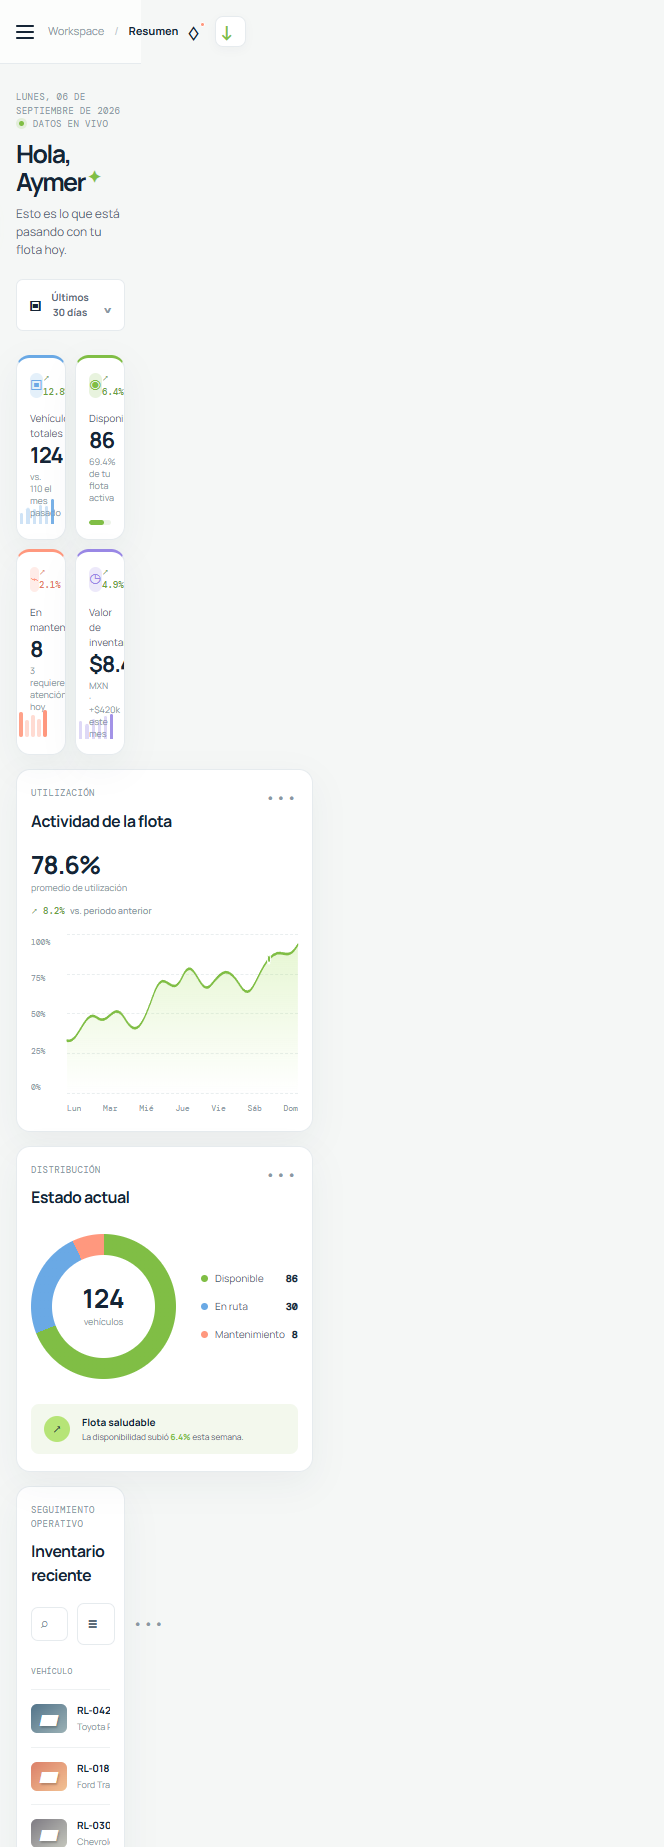
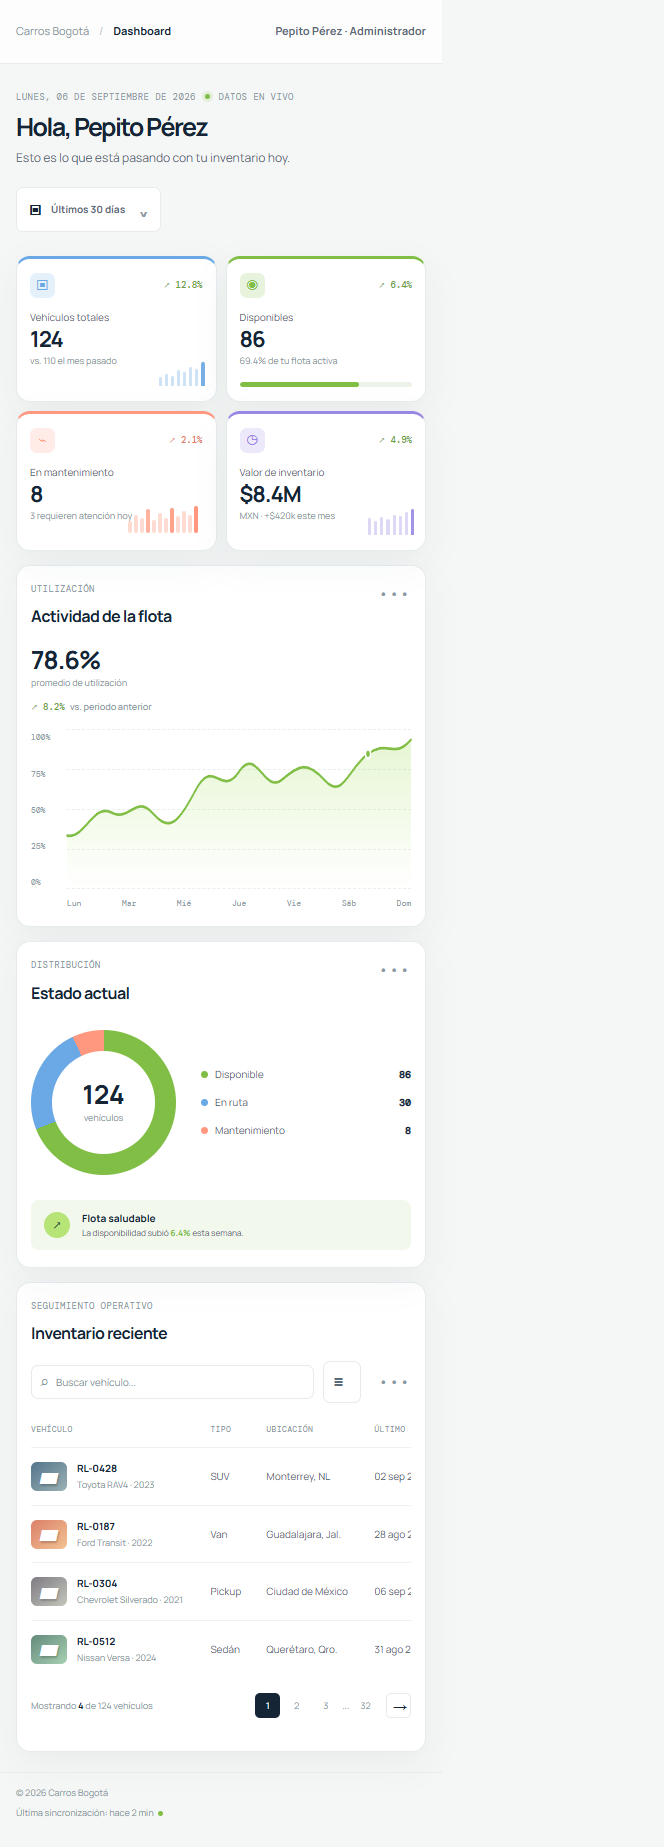
simplify vehicle dashboard branding

diff --git a/styles.css b/styles.css
@@ -27,7 +27,7 @@ button { border: 0; cursor: pointer; }
 a { color: inherit; text-decoration: none; }
 .sr-only { position: absolute; width: 1px; height: 1px; padding: 0; margin: -1px; overflow: hidden; clip: rect(0, 0, 0, 0); white-space: nowrap; border: 0; }
 
-.app-shell { display: grid; min-height: 100vh; grid-template-columns: 248px minmax(0, 1fr); grid-template-rows: 72px 1fr 52px; grid-template-areas: 'sidebar topbar' 'sidebar main' 'sidebar footer'; }
+.app-shell { display: grid; min-height: 100vh; grid-template-columns: minmax(0, 1fr); grid-template-rows: 72px 1fr 52px; grid-template-areas: 'topbar' 'main' 'footer'; }
 .sidebar { grid-area: sidebar; display: flex; flex-direction: column; position: relative; z-index: 5; padding: 28px 18px 20px; background: var(--sidebar); color: #fff; }
 .brand { display: flex; align-items: center; gap: 10px; margin: 0 12px 38px; font-size: 18px; font-weight: 800; letter-spacing: -.7px; }
 .brand-dot { color: var(--lime); }
@@ -42,7 +42,7 @@ a { color: inherit; text-decoration: none; }
 .nav-link { display: flex; align-items: center; gap: 12px; min-height: 42px; margin: 2px 0; padding: 0 13px; border-radius: 9px; color: var(--sidebar-soft); font-size: 12px; font-weight: 600; transition: color .2s ease, background .2s ease, transform .2s ease; }.nav-link:hover, .nav-link:focus-visible { color: #fff; background: rgba(255,255,255,.08); transform: translateX(2px); outline: none; }.nav-link.active { color: var(--ink); background: var(--lime); box-shadow: 0 5px 16px rgba(182,228,119,.16); }.nav-icon { width: 16px; color: currentColor; font-size: 17px; line-height: 1; text-align: center; }.nav-count { margin-left: auto; color: #718897; font-family: var(--font-mono); font-size: 9px; }.nav-link.active .nav-count { color: var(--ink); }.nav-count.warning { color: var(--coral); }.notification-dot { width: 5px; height: 5px; margin-left: auto; border-radius: 50%; background: var(--coral); }
 .sidebar-bottom { margin-top: auto; }.support-card { display: flex; align-items: center; gap: 9px; margin: 0 2px 23px; padding: 12px 10px; border-top: 1px solid rgba(255,255,255,.1); color: var(--sidebar-soft); font-size: 10px; }.support-card > div { flex: 1; }.support-card strong, .support-card span { display: block; }.support-card strong { color: #d4dee4; font-size: 10px; }.support-icon { display: grid; width: 24px; height: 24px; place-items: center; border: 1px solid #536d7c; border-radius: 50%; font-size: 11px; }.profile { display: flex; align-items: center; gap: 9px; padding: 11px 8px 0; border-top: 1px solid rgba(255,255,255,.1); }.avatar { display: grid; width: 31px; height: 31px; place-items: center; border-radius: 50%; background: #ecc1a4; color: var(--ink); font-size: 10px; font-weight: 800; }.profile div:nth-child(2) { flex: 1; }.profile strong, .profile span { display: block; }.profile strong { color: #eef4f7; font-size: 10px; }.profile span { color: var(--sidebar-soft); font-size: 9px; }.profile button { padding: 5px; background: transparent; color: var(--sidebar-soft); letter-spacing: 2px; }
 
-.topbar { grid-area: topbar; display: flex; align-items: center; justify-content: space-between; padding: 0 42px; border-bottom: 1px solid var(--line); background: rgba(255,255,255,.72); }.breadcrumb { display: flex; gap: 10px; color: var(--muted); font-size: 11px; }.breadcrumb b { color: #c3cbd0; font-weight: 400; }.breadcrumb strong { color: var(--ink); font-weight: 700; }.topbar-actions { display: flex; align-items: center; gap: 18px; }.icon-button, .menu-toggle { display: grid; place-items: center; background: transparent; color: var(--ink); }.icon-button { position: relative; width: 30px; height: 30px; font-size: 21px; }.notification-button i { position: absolute; top: 5px; right: 3px; width: 5px; height: 5px; border: 1px solid var(--white); border-radius: 50%; background: var(--coral); }.export-button { display: flex; align-items: center; gap: 8px; padding: 10px 15px; border: 1px solid var(--line); border-radius: 8px; background: var(--white); color: var(--ink); font-size: 11px; font-weight: 700; box-shadow: 0 3px 10px rgba(21,37,54,.03); transition: border-color .2s, transform .2s, box-shadow .2s; }.export-button:hover, .export-button:focus-visible { border-color: var(--lime-deep); box-shadow: 0 7px 18px rgba(21,37,54,.08); transform: translateY(-1px); outline: none; }.export-button span { color: var(--lime-deep); font-size: 19px; line-height: 12px; }.menu-toggle { display: none; }
+.topbar { grid-area: topbar; display: flex; align-items: center; justify-content: space-between; padding: 0 42px; border-bottom: 1px solid var(--line); background: rgba(255,255,255,.72); }.breadcrumb { display: flex; gap: 10px; color: var(--muted); font-size: 11px; }.breadcrumb b { color: #c3cbd0; font-weight: 400; }.breadcrumb strong { color: var(--ink); font-weight: 700; }.user-label { color: var(--ink-soft); font-size: 11px; font-weight: 700; }
 
 .main-content { grid-area: main; width: 100%; max-width: 1440px; margin: 0 auto; padding: 42px 42px 30px; }.page-intro { display: flex; align-items: end; justify-content: space-between; margin-bottom: 30px; }.eyebrow, .panel-kicker { margin: 0 0 8px; color: var(--muted); font-family: var(--font-mono); font-size: 9px; letter-spacing: .4px; text-transform: uppercase; }.live-dot { display: inline-block; width: 5px; height: 5px; margin: 0 3px 1px; border-radius: 50%; background: var(--lime-deep); box-shadow: 0 0 0 3px rgba(128,190,69,.15); }.page-intro h1 { margin: 0; font-size: clamp(25px, 2.5vw, 33px); letter-spacing: -1.6px; line-height: 1.15; }.page-intro h1 span { color: var(--lime-deep); font-size: .62em; vertical-align: top; }.intro-copy { margin: 8px 0 0; color: var(--ink-soft); font-size: 12px; }.date-button { display: flex; align-items: center; gap: 10px; padding: 10px 12px; border: 1px solid var(--line); border-radius: 7px; background: var(--white); color: var(--ink-soft); font-size: 10px; font-weight: 700; }.date-button span:first-child { color: var(--ink); font-size: 14px; }.date-button span:last-child { padding-left: 4px; color: var(--muted); font-size: 15px; }
 .metrics-grid { display: grid; grid-template-columns: repeat(4, 1fr); gap: 13px; margin-bottom: 14px; }.metric-card, .panel { border: 1px solid var(--line); border-radius: var(--radius); background: var(--white); box-shadow: var(--shadow); }.metric-card { position: relative; min-height: 144px; padding: 17px 18px 15px; overflow: hidden; border-top: 3px solid var(--accent); }.accent-blue { --accent: var(--blue); }.accent-lime { --accent: var(--lime-deep); }.accent-coral { --accent: var(--coral); }.accent-violet { --accent: var(--violet); }.metric-top { display: flex; align-items: center; justify-content: space-between; }.metric-icon { display: grid; width: 25px; height: 25px; place-items: center; border-radius: 7px; background: color-mix(in srgb, var(--accent) 18%, white); color: var(--accent); font-size: 15px; }.trend { font-family: var(--font-mono); font-size: 9px; font-weight: 500; }.trend.positive { color: #69a33d; }.trend.negative { color: #e37a65; }.metric-card p { margin: 15px 0 3px; color: var(--ink-soft); font-size: 10px; }.metric-card strong { display: block; font-size: 25px; letter-spacing: -1px; line-height: 1; }.metric-card small { display: block; margin-top: 5px; color: var(--muted); font-size: 9px; }.sparkline { position: absolute; right: 16px; bottom: 16px; display: flex; align-items: end; gap: 3px; width: 67px; height: 28px; }.sparkline span { flex: 1; border-radius: 3px 3px 0 0; background: var(--accent); opacity: .32; }.sparkline span:last-child { opacity: .9; }.progress-track { height: 5px; margin-top: 15px; overflow: hidden; border-radius: 4px; background: #edf3e9; }.progress-track span { display: block; height: 100%; border-radius: inherit; background: var(--lime-deep); }.maintenance-bars { display: flex; align-items: end; gap: 2px; position: absolute; right: 18px; bottom: 17px; height: 27px; }.maintenance-bars i { display: block; width: 4px; border-radius: 2px; background: var(--coral); opacity: .35; }.maintenance-bars i:nth-child(1) { height: 12px; }.maintenance-bars i:nth-child(2) { height: 18px; }.maintenance-bars i:nth-child(3) { height: 15px; }.maintenance-bars i:nth-child(4) { height: 24px; opacity: .75; }.maintenance-bars i:nth-child(5) { height: 13px; }.maintenance-bars i:nth-child(6) { height: 20px; }.maintenance-bars i:nth-child(7) { height: 15px; }.maintenance-bars i:nth-child(8) { height: 25px; opacity: .9; }.maintenance-bars i:nth-child(9) { height: 17px; }.maintenance-bars i:nth-child(10) { height: 22px; }.maintenance-bars i:nth-child(11) { height: 18px; }.maintenance-bars i:nth-child(12) { height: 27px; opacity: 1; }

diff --git a/index.html b/index.html
@@ -4,7 +4,7 @@
   <meta charset="UTF-8">
   <meta name="viewport" content="width=device-width, initial-scale=1.0">
   <meta name="description" content="Panel administrativo para supervisar el inventario de una flota de vehículos.">
-  <title>Roadline | Inventario de vehículos</title>
+  <title>Carros Bogotá | Inventario de vehículos</title>
   <link rel="preconnect" href="https://fonts.googleapis.com">
   <link rel="preconnect" href="https://fonts.gstatic.com" crossorigin>
   <link href="https://fonts.googleapis.com/css2?family=DM+Mono:wght@400;500&family=Manrope:wght@400;500;600;700;800&display=swap" rel="stylesheet">
@@ -12,53 +12,14 @@
 </head>
 <body>
   <div class="app-shell">
-    <aside class="sidebar" id="sidebar" aria-label="Barra lateral de navegación">
-      <div class="brand">
-        <span class="brand-mark" aria-hidden="true"><span></span><span></span><span></span></span>
-        <span>roadline<span class="brand-dot">.</span></span>
-      </div>
-      <button class="sidebar-close" id="sidebarClose" type="button" aria-label="Cerrar menú">×</button>
-
-      <div class="workspace-switcher">
-        <div class="workspace-icon" aria-hidden="true">RL</div>
-        <div><strong>Roadline Fleet</strong><span>Operaciones · MX</span></div>
-        <span class="chevron" aria-hidden="true">⌄</span>
-      </div>
-
-      <nav class="nav-group" aria-label="Navegación principal">
-        <p class="nav-label">Workspace</p>
-        <a class="nav-link active" href="#resumen" aria-current="page"><span class="nav-icon" aria-hidden="true">▦</span>Resumen</a>
-        <a class="nav-link" href="#inventario"><span class="nav-icon" aria-hidden="true">▤</span>Inventario <span class="nav-count">124</span></a>
-        <a class="nav-link" href="#mantenimiento"><span class="nav-icon" aria-hidden="true">⌁</span>Mantenimiento <span class="nav-count warning">8</span></a>
-        <a class="nav-link" href="#conductores"><span class="nav-icon" aria-hidden="true">◎</span>Conductores</a>
-        <a class="nav-link" href="#reportes"><span class="nav-icon" aria-hidden="true">▥</span>Reportes</a>
-      </nav>
-
-      <nav class="nav-group secondary-nav" aria-label="Configuración">
-        <p class="nav-label">Administración</p>
-        <a class="nav-link" href="#alertas"><span class="nav-icon" aria-hidden="true">◌</span>Alertas <span class="notification-dot"></span></a>
-        <a class="nav-link" href="#ajustes"><span class="nav-icon" aria-hidden="true">⚙</span>Ajustes</a>
-      </nav>
-
-      <div class="sidebar-bottom">
-        <div class="support-card"><span class="support-icon" aria-hidden="true">?</span><div><strong>Centro de ayuda</strong><span>Estamos para ayudarte</span></div><span aria-hidden="true">↗</span></div>
-        <div class="profile"><div class="avatar">AS</div><div><strong>Aymer Suárez</strong><span>Administrador</span></div><button type="button" aria-label="Abrir menú de perfil">•••</button></div>
-      </div>
-    </aside>
-
-    <div class="sidebar-overlay" id="sidebarOverlay"></div>
     <header class="topbar" aria-label="Encabezado superior">
-      <button class="menu-toggle" id="menuToggle" type="button" aria-label="Abrir menú" aria-expanded="false"><span></span><span></span><span></span></button>
-      <div class="breadcrumb"><span>Workspace</span><b>/</b><strong>Resumen</strong></div>
-      <div class="topbar-actions">
-        <button class="icon-button notification-button" type="button" aria-label="Ver notificaciones"><span aria-hidden="true">♢</span><i></i></button>
-        <button class="export-button" id="exportButton" type="button"><span aria-hidden="true">↓</span> Exportar reporte</button>
-      </div>
+      <div class="breadcrumb"><span>Carros Bogotá</span><b>/</b><strong>Dashboard</strong></div>
+      <span class="user-label">Pepito Pérez · Administrador</span>
     </header>
 
     <main class="main-content" id="resumen" role="main">
       <section class="page-intro" aria-labelledby="page-title">
-        <div><p class="eyebrow">Lunes, 06 de septiembre de 2026 <span class="live-dot"></span> Datos en vivo</p><h1 id="page-title">Hola, Aymer <span aria-hidden="true">✦</span></h1><p class="intro-copy">Esto es lo que está pasando con tu flota hoy.</p></div>
+        <div><p class="eyebrow">Lunes, 06 de septiembre de 2026 <span class="live-dot"></span> Datos en vivo</p><h1 id="page-title">Hola, Pepito Pérez</h1><p class="intro-copy">Esto es lo que está pasando con tu inventario hoy.</p></div>
         <button class="date-button" type="button"><span aria-hidden="true">▣</span> Últimos 30 días <span aria-hidden="true">⌄</span></button>
       </section>
 
@@ -90,7 +51,7 @@
       </section>
     </main>
 
-    <footer class="footer"><span>© 2026 Roadline Fleet</span><span>Última sincronización: hace 2 min <i class="sync-dot"></i></span><a href="#privacidad">Privacidad</a><a href="#soporte">Soporte</a></footer>
+    <footer class="footer"><span>© 2026 Carros Bogotá</span><span>Última sincronización: hace 2 min <i class="sync-dot"></i></span><a href="#privacidad">Privacidad</a><a href="#soporte">Soporte</a></footer>
   </div>
   <div class="toast" id="toast" role="status" aria-live="polite"></div>
   <script src="script.js"></script>

diff --git a/script.js b/script.js
@@ -1,27 +1,4 @@
-const sidebar = document.querySelector('#sidebar');
-const sidebarOverlay = document.querySelector('#sidebarOverlay');
-const menuToggle = document.querySelector('#menuToggle');
-const sidebarClose = document.querySelector('#sidebarClose');
 const toast = document.querySelector('#toast');
-
-function setSidebar(open) {
-  sidebar.classList.toggle('open', open);
-  sidebarOverlay.classList.toggle('visible', open);
-  menuToggle.setAttribute('aria-expanded', String(open));
-}
-
-menuToggle.addEventListener('click', () => setSidebar(true));
-sidebarClose.addEventListener('click', () => setSidebar(false));
-sidebarOverlay.addEventListener('click', () => setSidebar(false));
-
-const navLinks = document.querySelectorAll('.nav-link');
-navLinks.forEach((link) => {
-  link.addEventListener('click', () => {
-    navLinks.forEach((item) => item.classList.remove('active'));
-    link.classList.add('active');
-    if (window.innerWidth <= 820) setSidebar(false);
-  });
-});
 
 let toastTimer;
 function showToast(message) {
@@ -31,8 +8,6 @@ function showToast(message) {
   toastTimer = setTimeout(() => toast.classList.remove('visible'), 2800);
 }
 
-document.querySelector('#exportButton').addEventListener('click', () => showToast('Reporte preparado para descargar.'));
-document.querySelector('.notification-button').addEventListener('click', () => showToast('Tienes 3 alertas pendientes de revisar.'));
 document.querySelector('.filter-button').addEventListener('click', () => showToast('Filtros de inventario activados.'));
 
 document.querySelectorAll('.page-button, .next-button').forEach((button) => {

diff --git a/README.md b/README.md
@@ -1,4 +1,4 @@
-# Roadline Fleet · Dashboard de inventario
+# Carros Bogotá · Dashboard de inventario
 
 Dashboard administrativo responsive para gestionar el inventario de una flota de vehículos. La interfaz permite consultar el estado de la flota, revisar métricas clave, analizar la utilización semanal y buscar vehículos desde la tabla de inventario.
 
@@ -12,7 +12,7 @@ Para ejecutar el proyecto, abre `index.html` en el navegador. No requiere instal
 
 - HTML5 semántico: `aside`, `header`, `main`, `section`, `article`, `table` y `footer`.
 - CSS3: variables custom, CSS Grid, Flexbox, media queries, gradientes y estados interactivos.
-- JavaScript vanilla: sidebar responsive, búsqueda, paginación visual, notificaciones y mensajes de acción.
+- JavaScript vanilla: búsqueda, paginación visual y mensajes de acción.
 - Tipografías Manrope y DM Mono desde Google Fonts.
 
 ## Componentes principales
@@ -27,7 +27,7 @@ Para ejecutar el proyecto, abre `index.html` en el navegador. No requiere instal
 
 La dirección visual toma referencias de dashboards operativos modernos: una base oscura para la navegación, un lienzo claro para reducir fatiga visual y colores de acento reservados para datos importantes. El verde lima comunica disponibilidad y crecimiento; el coral señala mantenimiento; el azul identifica vehículos en ruta.
 
-El layout general utiliza `grid-template-areas` para separar sidebar, header, contenido principal y footer. Dentro de cada componente se usa Flexbox para alinear controles y datos. En tablet el sidebar se convierte en un drawer, y en móvil la tabla mantiene su legibilidad mediante desplazamiento horizontal y los controles se compactan.
+El layout general utiliza `grid-template-areas` para separar header, contenido principal y footer. Dentro de cada componente se usa Flexbox para alinear controles y datos. En móvil la tabla mantiene su legibilidad mediante desplazamiento horizontal y los controles se compactan.
 
 ## Accesibilidad
 
@@ -48,4 +48,4 @@ El layout general utiliza `grid-template-areas` para separar sidebar, header, co
 
 ## Referencias visuales
 
-La composición se inspiró en patrones habituales de dashboards de operaciones y en galerías de producto como Dribbble Dashboards: sidebar persistente, tarjetas de KPI, gráficos de lectura rápida, tablas con filtros y una paleta de estados semánticos. La implementación es original y está adaptada al caso de uso de inventario vehicular.
+La composición se inspiró en patrones habituales de dashboards de operaciones y en galerías de producto como Dribbble Dashboards: tarjetas de KPI, gráficos de lectura rápida, tablas con filtros y una paleta de estados semánticos. La implementación es original y está adaptada al caso de uso de inventario vehicular.
